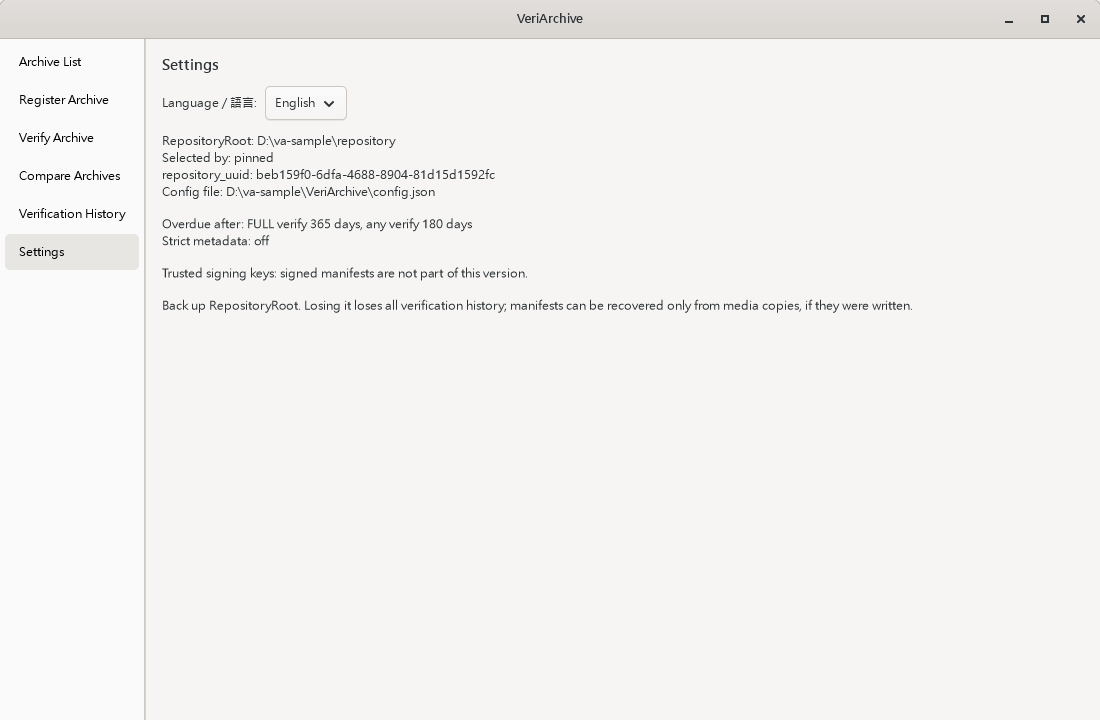
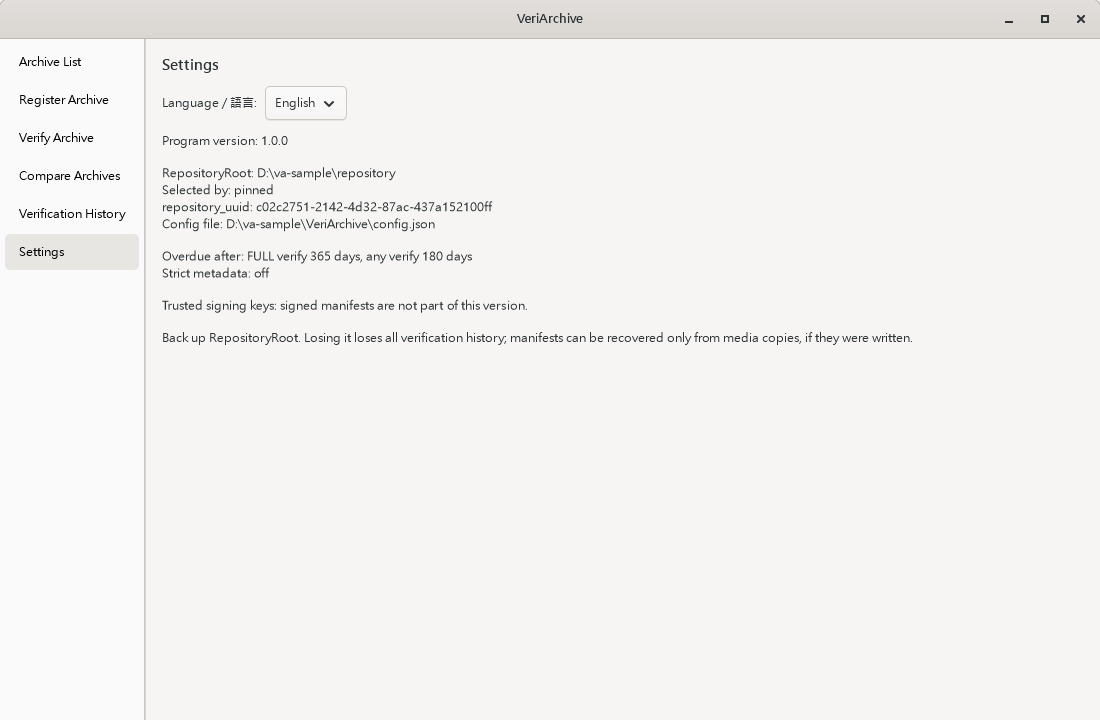
docs: take the guides' pictures again for version 1.0.0
- Take the pictures of both guides again with the sample data of tools/screenshots, so that Settings shows the program's version and the verify report and the history say what this version does not do, where they named V1.1
- Name the Program version line of Settings in both guides, which follows the language list, instead of calling it the view's first line

Changed region(s): [[0.1545, 0.1833, 0.8345, 0.4278], [0.1545, 0.4583, 0.8345, 0.4889]]

diff --git a/docs/user-guide.md b/docs/user-guide.md
@@ -26,7 +26,7 @@ The zip holds no folder of its own: its `bin`, `lib` and `share` go straight int
 - `bin/veriarchive-cli.exe`: the command line
 - `lib/` and `share/`: image loaders, icons, settings and translations GTK needs; `share/doc/VeriArchive/`: this guide and a short README; `share/licenses/`: licenses of the libraries the program uses
 
-To update the program, close VeriArchive, then unzip the new version's zip **into the same folder** (`D:\VeriArchive` in the example) and let it replace the files there. In Windows Explorer: right-click the zip, choose "Extract All...", type the program folder as the destination, and when asked, choose to replace the files in the destination. Explorer proposes a new folder named after the zip instead; a program unzipped there finds none of your records. The zip holds no `bin\data` and no `bin\config.json`, so the existing records are not overwritten. Do not delete the old folder first. To see which version runs, look at the first line of the Settings view, or run `veriarchive-cli --version` or `veriarchive-cli repo info`.
+To update the program, close VeriArchive, then unzip the new version's zip **into the same folder** (`D:\VeriArchive` in the example) and let it replace the files there. In Windows Explorer: right-click the zip, choose "Extract All...", type the program folder as the destination, and when asked, choose to replace the files in the destination. Explorer proposes a new folder named after the zip instead; a program unzipped there finds none of your records. The zip holds no `bin\data` and no `bin\config.json`, so the existing records are not overwritten. Do not delete the old folder first. To see which version runs, look at "Program version" in the Settings view, or run `veriarchive-cli --version` or `veriarchive-cli repo info`.
 
 ### Moving the program folder
 
